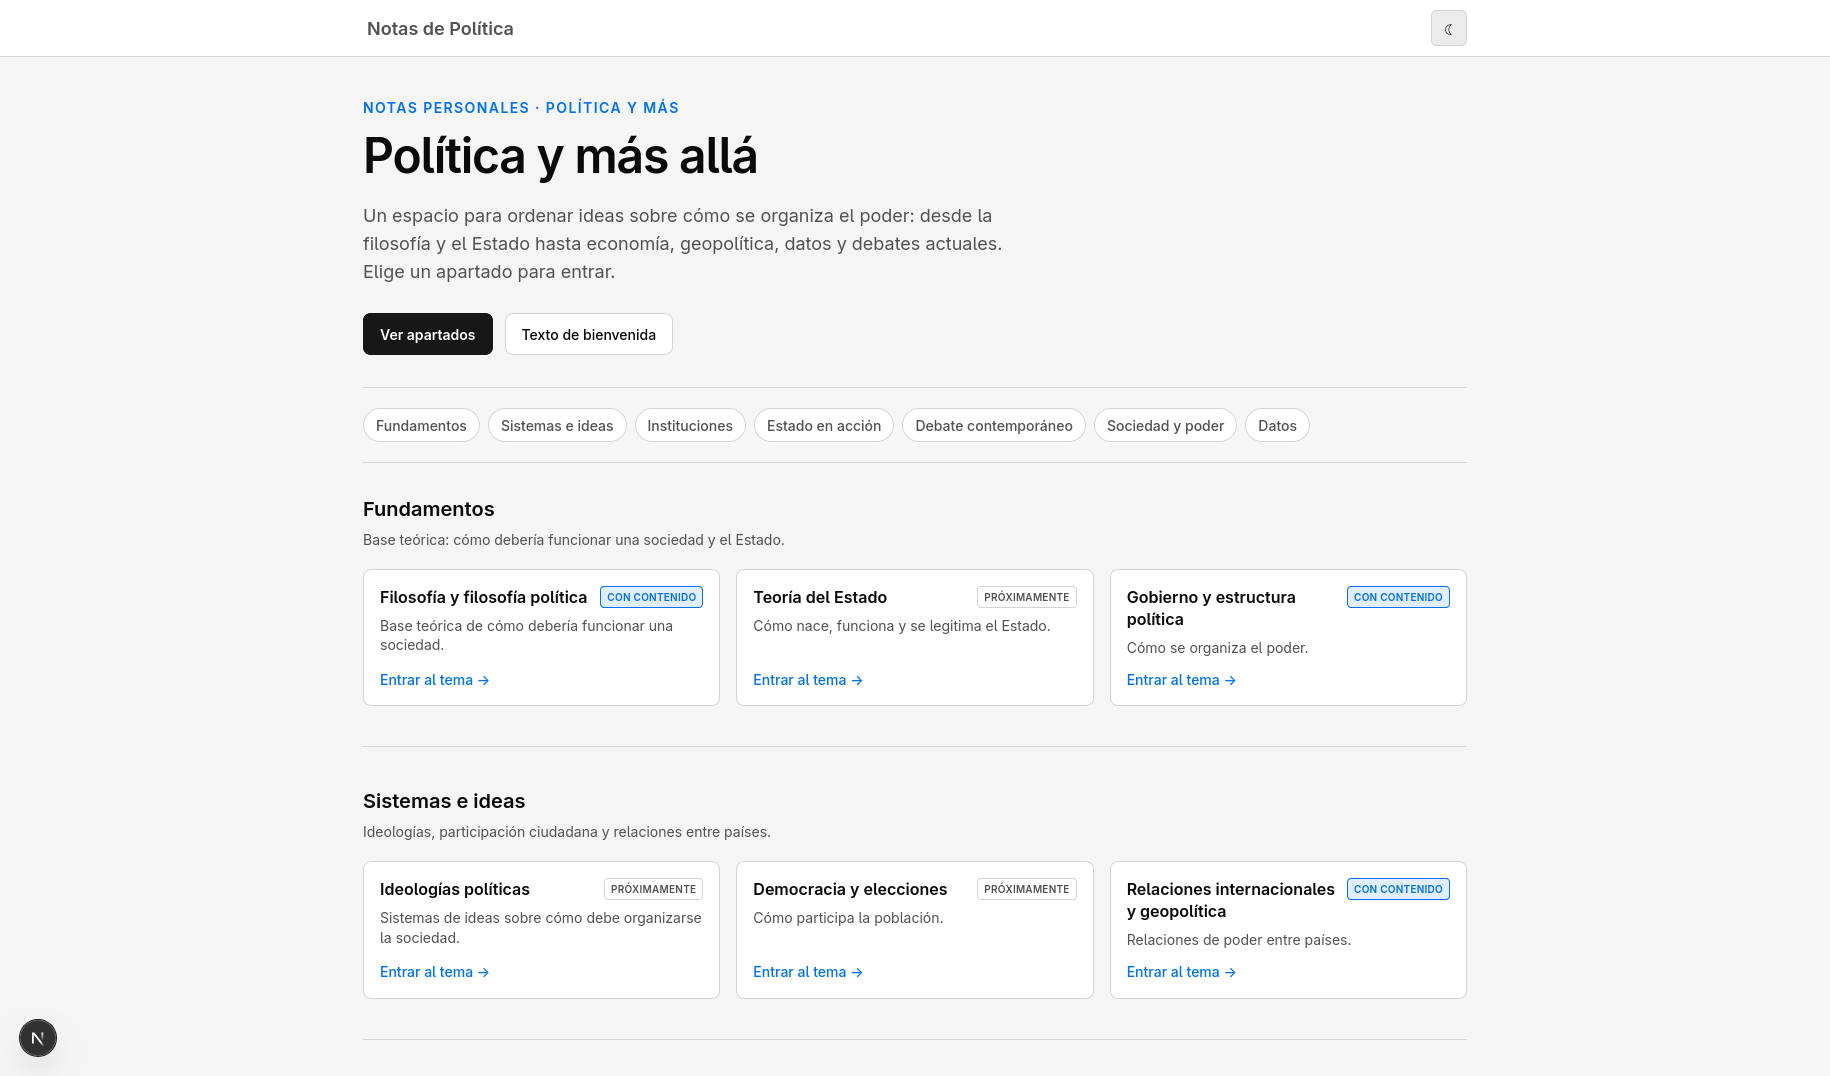
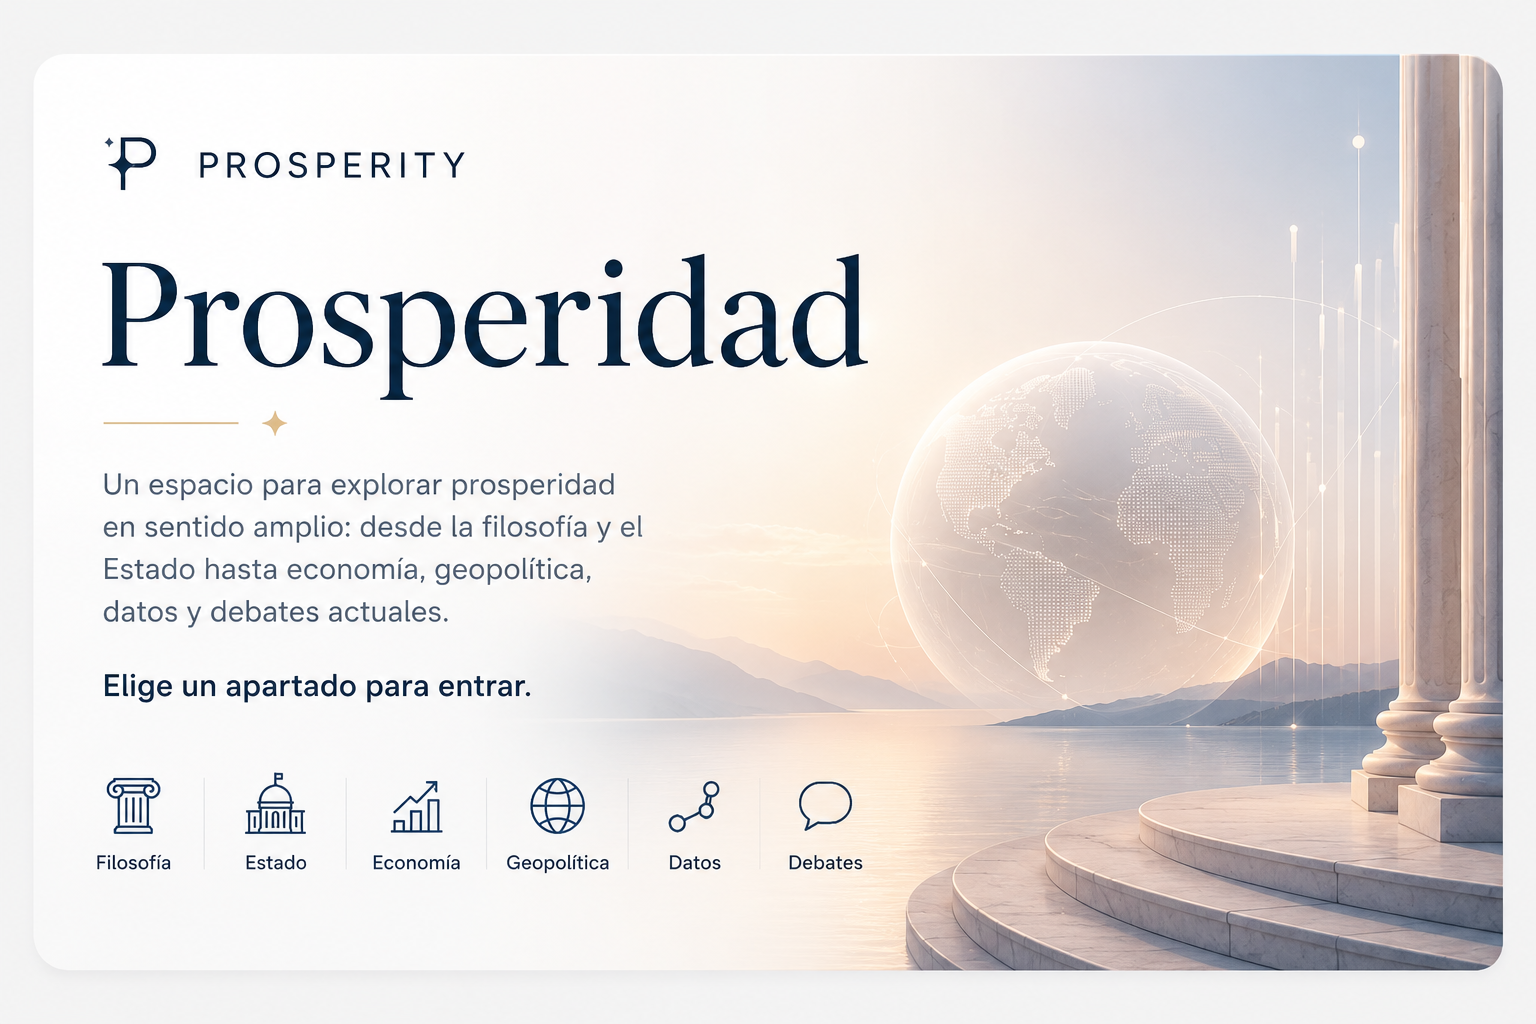
fix(navigation): improve header dropdown keyboard and focus styles
feat(seo): update opengraph preview image

diff --git a/src/components/layout/SiteSectionsNav.tsx b/src/components/layout/SiteSectionsNav.tsx
@@ -1,19 +1,154 @@
 'use client';
 
 import Link from 'next/link';
-import { useCallback, useEffect, useId, useRef, useState } from 'react';
+import {
+  useCallback,
+  useEffect,
+  useId,
+  useRef,
+  useState,
+  type KeyboardEvent,
+} from 'react';
 import { ChevronDown } from 'lucide-react';
 import { getNavCategoriesGrouped } from '@/lib/temas/registry';
 import { cn } from '@/lib/utils';
 
 const navCategories = getNavCategoriesGrouped();
 
+function getFocusables(container: HTMLElement | null): HTMLElement[] {
+  if (!container) return [];
+  return Array.from(
+    container.querySelectorAll<HTMLElement>(
+      'a[href], button:not([disabled])',
+    ),
+  );
+}
+
 export function SiteSectionsNav() {
   const [openCategoryId, setOpenCategoryId] = useState<string | null>(null);
   const navRef = useRef<HTMLElement>(null);
+  const triggerRefs = useRef<Record<string, HTMLButtonElement | null>>({});
+  const panelRefs = useRef<Record<string, HTMLDivElement | null>>({});
   const listId = useId();
 
-  const close = useCallback(() => setOpenCategoryId(null), []);
+  const close = useCallback((returnFocusTo?: string) => {
+    setOpenCategoryId(null);
+    if (returnFocusTo) {
+      requestAnimationFrame(() => {
+        triggerRefs.current[returnFocusTo]?.focus();
+      });
+    }
+  }, []);
+
+  const open = useCallback((categoryId: string, focusFirst = false) => {
+    setOpenCategoryId(categoryId);
+    if (focusFirst) {
+      requestAnimationFrame(() => {
+        const first = getFocusables(panelRefs.current[categoryId] ?? null)[0];
+        first?.focus();
+      });
+    }
+  }, []);
+
+  const toggle = useCallback((categoryId: string, focusFirst = false) => {
+    setOpenCategoryId((current) => {
+      const willOpen = current !== categoryId;
+      if (willOpen && focusFirst) {
+        requestAnimationFrame(() => {
+          const first = getFocusables(panelRefs.current[categoryId] ?? null)[0];
+          first?.focus();
+        });
+      }
+      return willOpen ? categoryId : null;
+    });
+  }, []);
+
+  const moveBetweenTriggers = useCallback(
+    (direction: 1 | -1, current: HTMLElement) => {
+      const triggers = navCategories
+        .map((entry) => triggerRefs.current[entry.category.id])
+        .filter((node): node is HTMLButtonElement => node != null);
+      const index = triggers.indexOf(current as HTMLButtonElement);
+      if (index === -1) return;
+      const next = triggers[index + direction];
+      next?.focus();
+    },
+    [],
+  );
+
+  const handlePanelKeyDown = useCallback(
+    (event: KeyboardEvent<HTMLDivElement>, categoryId: string) => {
+      const panel = panelRefs.current[categoryId];
+      const items = getFocusables(panel ?? null);
+      const index = items.indexOf(event.target as HTMLElement);
+
+      switch (event.key) {
+        case 'Escape':
+          event.preventDefault();
+          close(categoryId);
+          break;
+        case 'ArrowDown': {
+          event.preventDefault();
+          if (items.length === 0) return;
+          items[(index + 1 + items.length) % items.length]?.focus();
+          break;
+        }
+        case 'ArrowUp': {
+          event.preventDefault();
+          if (items.length === 0) return;
+          items[(index - 1 + items.length) % items.length]?.focus();
+          break;
+        }
+        case 'Tab':
+          if (event.shiftKey && index <= 0) {
+            close();
+          } else if (!event.shiftKey && index === items.length - 1) {
+            close();
+          }
+          break;
+        default:
+          break;
+      }
+    },
+    [close],
+  );
+
+  const handleTriggerKeyDown = useCallback(
+    (event: KeyboardEvent<HTMLButtonElement>, categoryId: string) => {
+      switch (event.key) {
+        case 'ArrowDown':
+          event.preventDefault();
+          open(categoryId, true);
+          break;
+        case 'ArrowUp':
+          event.preventDefault();
+          if (openCategoryId === categoryId) {
+            close(categoryId);
+          }
+          break;
+        case 'Enter':
+        case ' ':
+          event.preventDefault();
+          toggle(categoryId, true);
+          break;
+        case 'ArrowLeft':
+          event.preventDefault();
+          moveBetweenTriggers(-1, event.currentTarget);
+          break;
+        case 'ArrowRight':
+          event.preventDefault();
+          moveBetweenTriggers(1, event.currentTarget);
+          break;
+        case 'Escape':
+          event.preventDefault();
+          close(categoryId);
+          break;
+        default:
+          break;
+      }
+    },
+    [close, moveBetweenTriggers, open, openCategoryId, toggle],
+  );
 
   useEffect(() => {
     if (!openCategoryId) return;
@@ -22,8 +157,8 @@ export function SiteSectionsNav() {
       if (!navRef.current?.contains(event.target as Node)) close();
     };
 
-    const onKeyDown = (event: KeyboardEvent) => {
-      if (event.key === 'Escape') close();
+    const onKeyDown = (event: globalThis.KeyboardEvent) => {
+      if (event.key === 'Escape') close(openCategoryId);
     };
 
     document.addEventListener('mousedown', onPointerDown);
@@ -42,50 +177,47 @@ export function SiteSectionsNav() {
     >
       <ul
         id={listId}
+        role="menubar"
+        aria-orientation="horizontal"
         className="m-0 flex w-full list-none items-center justify-start gap-4 overflow-x-auto sm:justify-center sm:gap-5 md:gap-6 [-ms-overflow-style:none] [scrollbar-width:none] [&::-webkit-scrollbar]:hidden"
       >
         {navCategories.map(({ category, sections }) => {
           const isOpen = openCategoryId === category.id;
           const panelId = `${listId}-${category.id}`;
+          const triggerId = `${listId}-trigger-${category.id}`;
 
           return (
             <li
               key={category.id}
-              className="group/nav relative flex shrink-0 items-center"
+              role="none"
+              className="group/nav relative shrink-0"
               onMouseEnter={() => setOpenCategoryId(category.id)}
               onMouseLeave={() =>
                 setOpenCategoryId((id) => (id === category.id ? null : id))
               }
             >
-              <a
-                href={`/#${category.id}`}
-                className={cn(
-                  'inline-flex h-9 items-center text-sm font-medium no-underline',
-                  'text-foreground/75 hover:text-foreground',
-                  'focus-visible:outline focus-visible:outline-2 focus-visible:outline-offset-2 focus-visible:outline-[var(--focus-ring)]',
-                  isOpen && 'text-foreground',
-                )}
-                onClick={close}
-              >
-                {category.label}
-              </a>
               <button
+                ref={(node) => {
+                  triggerRefs.current[category.id] = node;
+                }}
                 type="button"
-                className={cn(
-                  'inline-flex h-9 w-6 cursor-pointer items-center justify-center',
-                  'text-foreground/75 hover:text-foreground',
-                  'focus-visible:outline focus-visible:outline-2 focus-visible:outline-offset-2 focus-visible:outline-[var(--focus-ring)]',
-                  isOpen && 'text-foreground',
-                )}
+                id={triggerId}
+                role="menuitem"
+                aria-haspopup="menu"
                 aria-expanded={isOpen}
                 aria-controls={panelId}
-                aria-label={`Subsecciones de ${category.label}`}
-                onClick={() =>
-                  setOpenCategoryId((id) =>
-                    id === category.id ? null : category.id,
-                  )
+                className={cn(
+                  'inline-flex h-9 cursor-pointer items-center gap-0.5 rounded-sm px-1.5',
+                  'text-sm font-medium text-foreground/75 hover:text-foreground',
+                  'outline-none focus-visible:outline-none focus-visible:ring-2 focus-visible:ring-inset focus-visible:ring-[var(--focus-ring)]',
+                  isOpen && 'text-foreground',
+                )}
+                onClick={() => toggle(category.id, false)}
+                onKeyDown={(event) =>
+                  handleTriggerKeyDown(event, category.id)
                 }
               >
+                {category.label}
                 <ChevronDown
                   className={cn(
                     'size-3 shrink-0 opacity-50 transition-transform',
@@ -96,49 +228,55 @@ export function SiteSectionsNav() {
               </button>
 
               <div
+                ref={(node) => {
+                  panelRefs.current[category.id] = node;
+                }}
                 id={panelId}
+                role="menu"
+                aria-labelledby={triggerId}
+                hidden={!isOpen}
+                onKeyDown={(event) =>
+                  handlePanelKeyDown(event, category.id)
+                }
                 className={cn(
                   'absolute top-[calc(100%+0.25rem)] right-0 z-30 w-[min(20rem,calc(100vw-2rem))]',
                   'rounded-md border border-border bg-elevated py-2 shadow-[var(--shadow-theme)]',
                   'sm:left-1/2 sm:right-auto sm:-translate-x-1/2',
-                  isOpen
-                    ? 'pointer-events-auto visible opacity-100'
-                    : 'pointer-events-none invisible opacity-0 max-md:hidden',
-                  'md:group-hover/nav:pointer-events-auto md:group-hover/nav:visible md:group-hover/nav:opacity-100',
-                  'transition-opacity duration-150',
                 )}
-                role="region"
-                aria-label={category.label}
               >
                 <a
                   href={`/#${category.id}`}
-                  className="mx-2 mb-1 block px-2 py-1.5 text-xs font-medium text-link no-underline hover:underline"
-                  onClick={close}
+                  role="menuitem"
+                  className="mx-2 mb-1 block rounded-sm px-2 py-1.5 text-xs font-medium text-link no-underline outline-none hover:underline focus-visible:outline-none focus-visible:ring-2 focus-visible:ring-inset focus-visible:ring-[var(--focus-ring)]"
+                  onClick={() => close()}
                 >
                   Ver {category.label.toLowerCase()}
                 </a>
 
-                <ul className="m-0 max-h-[min(18rem,55vh)] list-none overflow-y-auto px-1">
+                <ul className="m-0 max-h-[min(18rem,55vh)] list-none overflow-y-auto px-1" role="none">
                   {sections.map(({ group, temas }) => (
                     <li
                       key={group.id}
+                      role="none"
                       className="not-first:mt-2 not-first:border-t not-first:border-border not-first:pt-2"
                     >
                       <a
                         href={`/#${group.id}`}
-                        className="block px-2 py-1 text-sm font-semibold text-foreground no-underline hover:text-link"
-                        onClick={close}
+                        role="menuitem"
+                        className="block rounded-sm px-2 py-1 text-sm font-semibold text-foreground no-underline outline-none hover:text-link focus-visible:outline-none focus-visible:ring-2 focus-visible:ring-inset focus-visible:ring-[var(--focus-ring)]"
+                        onClick={() => close()}
                       >
                         {group.label}
                       </a>
                       {temas.length > 0 && (
-                        <ul className="m-0 mt-0.5 list-none">
+                        <ul className="m-0 mt-0.5 list-none" role="none">
                           {temas.map((tema) => (
-                            <li key={tema.id}>
+                            <li key={tema.id} role="none">
                               <Link
                                 href={`/${tema.id}`}
-                                className="block px-2 py-1 text-sm leading-snug text-muted-foreground no-underline hover:text-link"
-                                onClick={close}
+                                role="menuitem"
+                                className="block rounded-sm px-2 py-1 text-sm leading-snug text-muted-foreground no-underline outline-none hover:text-link focus-visible:outline-none focus-visible:ring-2 focus-visible:ring-inset focus-visible:ring-[var(--focus-ring)]"
+                                onClick={() => close()}
                               >
                                 {tema.title}
                               </Link>
